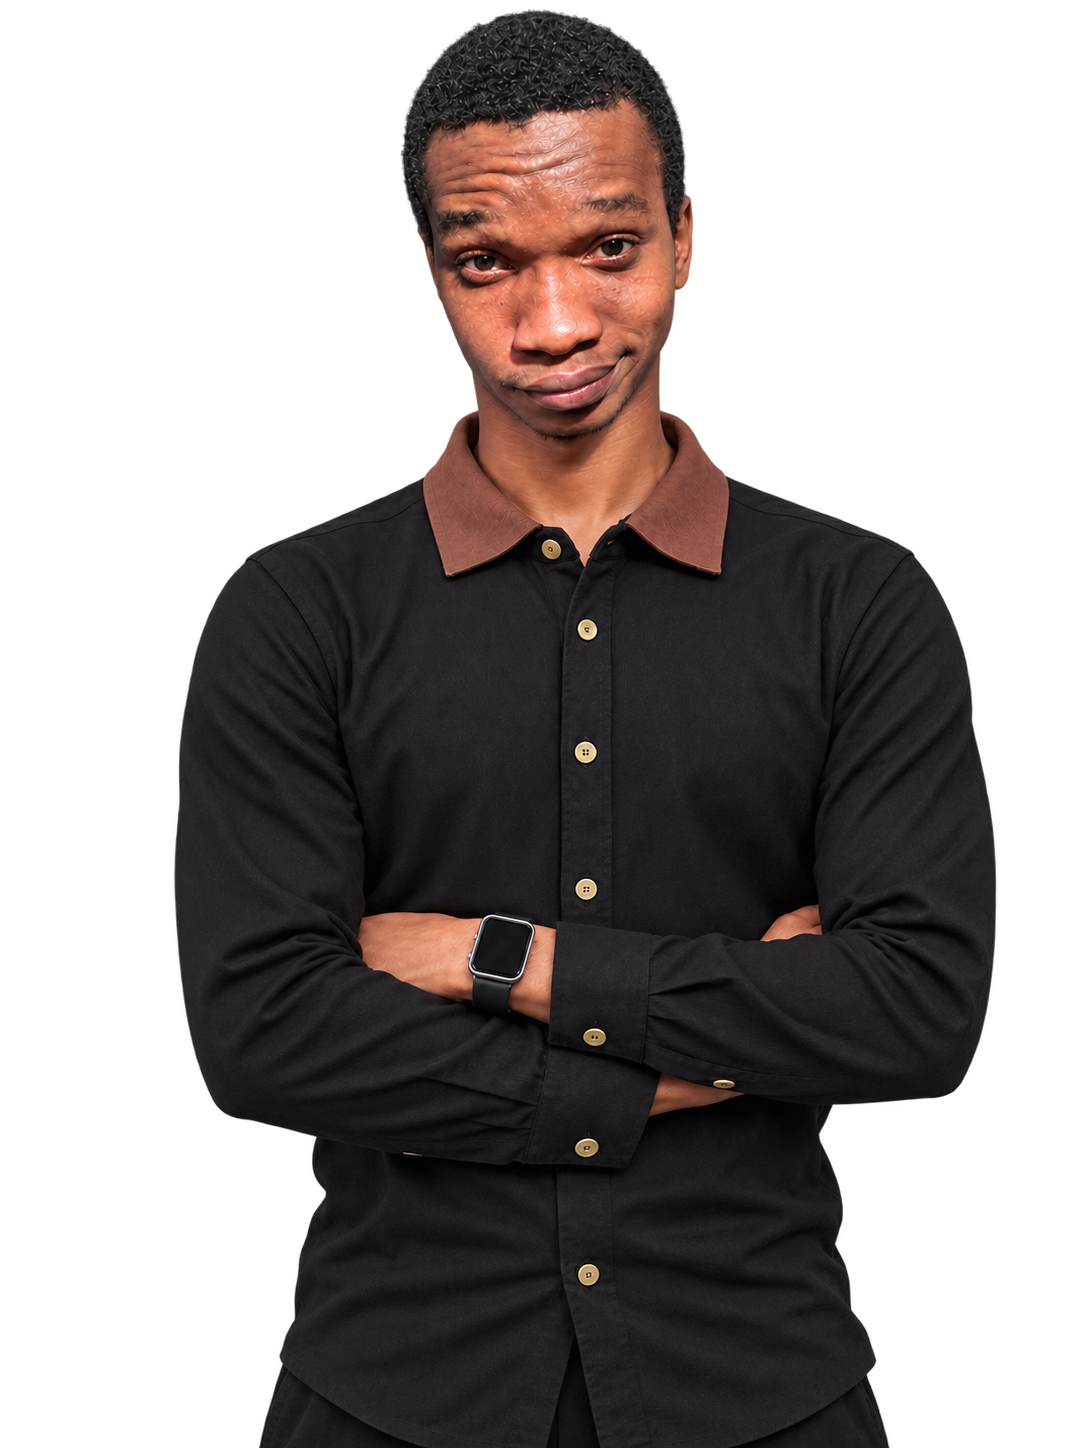
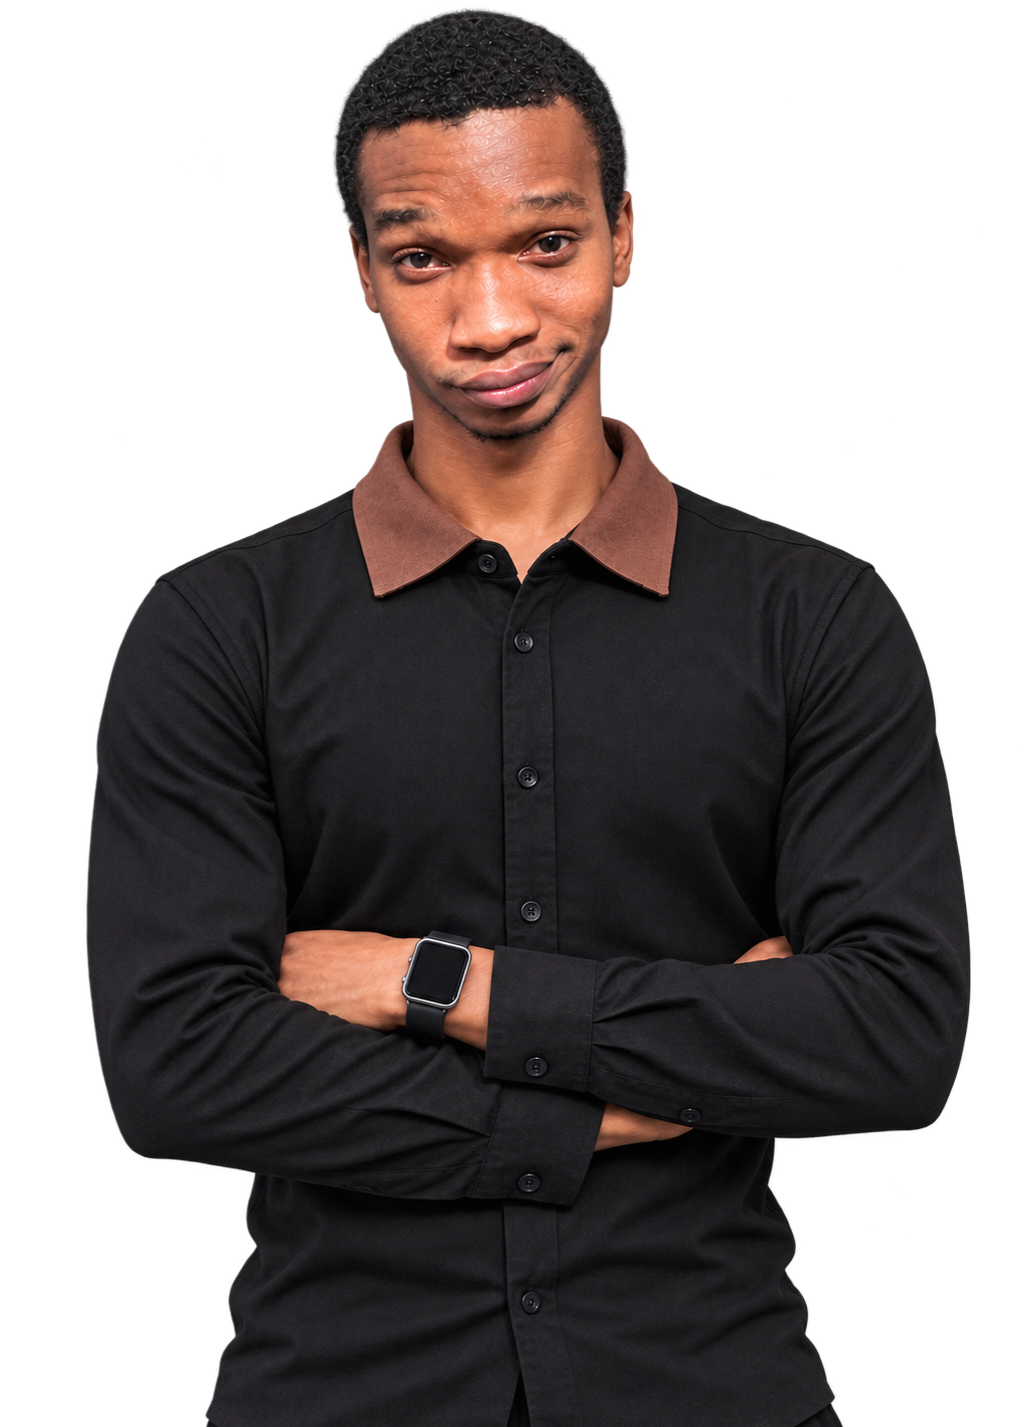
initial commit

diff --git a/src/index.css b/src/index.css
@@ -4,7 +4,7 @@
 @font-face {  font-family: "Fredoka";  src: url("/fonts/fredoka.ttf") format("truetype");  font-weight: 300 700;  font-style: normal;  font-display: swap;}
 @font-face {  font-family: "JetBrains Mono";  src: url("/fonts/jetbrains-mono.ttf") format("truetype");  font-weight: 100 800;  font-style: normal;  font-display: swap;}
 :root {  --font-delius: "Delius", ui-sans-serif, system-ui, sans-serif;  --font-fredoka: "Fredoka", ui-sans-serif, system-ui, sans-serif;  --font-jetbrains-mono: "JetBrains Mono", ui-monospace, monospace;}
-@theme {  --color-mist: #e5e8e5;  --color-cream: #fcfdfc;  --color-cocoa: #222a27;  --color-cocoa-soft: #48534e;  --color-muted: #5f6a65;  --color-line: #cdd4cf;  --color-sunshine: #fed15c;  --color-leaf: #4ca275;  --color-leaf-ink: #286146;  --color-rose: #fe9399;  --color-rose-ink: #a23943;  --color-sky: #8ac0ff;  --color-sky-ink: #285982;  --color-tangerine: #fd8749;  --color-tangerine-ink: #91451e;}.portfolio-header {  position: fixed;  inset: 0 0 auto;  width: 100%;  max-width: none;  margin: 0;  padding: 12px 28px;  display: flex;  align-items: center;  justify-content: space-between;  gap: 24px;  z-index: 50;  background: var(--color-mist);
+@theme {  --color-mist: #e8e6ed;  --color-cream: #fbfbfd;  --color-cocoa: #25232b;  --color-cocoa-soft: #4d4857;  --color-muted: #66616f;  --color-line: #d5d2db;  --color-sunshine: #fed15c;  --color-leaf: #4ca275;  --color-leaf-ink: #286146;  --color-rose: #fe9399;  --color-rose-ink: #a23943;  --color-sky: #8ac0ff;  --color-sky-ink: #285982;  --color-tangerine: #fd8749;  --color-tangerine-ink: #91451e;}.portfolio-header {  position: fixed;  inset: 0 0 auto;  width: 100%;  max-width: none;  margin: 0;  padding: 12px 28px;  display: flex;  align-items: center;  justify-content: space-between;  gap: 24px;  z-index: 50;  background: var(--color-mist);
   background: color-mix(in srgb, var(--color-mist) 90%, transparent);  -webkit-backdrop-filter: blur(14px);  backdrop-filter: blur(14px);  border-bottom: 1px solid color-mix(in srgb, var(--color-cocoa) 42%, transparent);}
 main { padding-top: 68px; }
 .portfolio-wordmark { display: flex; align-items: center; gap: 2px; font-size: 31px; line-height: 1; }
@@ -35,7 +35,7 @@ html { scroll-behavior: smooth; }
   .portfolio-header-actions { gap: 12px; }
   .portfolio-contact-link { font-size: 12px; padding: 7px 10px; }
   .portfolio-menu-toggle { display: flex; align-items: center; justify-content: center; width: 44px; height: 44px; }
-  .portfolio-mobile-nav { display: flex; flex-direction: column; position: absolute; left: 12px; right: 12px; top: calc(100% - 5px); background: var(--color-cream); border: 1px solid var(--color-line); border-radius: 18px; box-shadow: 0 12px 24px #222a271a; padding: 8px 16px; }
+  .portfolio-mobile-nav { display: flex; flex-direction: column; position: absolute; left: 12px; right: 12px; top: calc(100% - 5px); background: var(--color-cream); border: 1px solid var(--color-line); border-radius: 18px; box-shadow: 0 12px 24px #25232b1a; padding: 8px 16px; }
   .portfolio-mobile-nav a { display: flex; justify-content: space-between; align-items: center; padding: 13px 0; border-bottom: 1px solid var(--color-line); }
   .portfolio-mobile-nav a:last-child { border-bottom: 0; }
 }
@@ -70,13 +70,13 @@ html { scroll-behavior: smooth; }
  .portfolio-logo { width: 22px; height: 22px; }
  }@media (max-width: 860px) and (min-width: 701px) {  .portfolio-desktop-nav { display: none; }
   .portfolio-menu-toggle { display: flex; align-items: center; justify-content: center; width: 44px; height: 44px; }
-  .portfolio-mobile-nav { display: flex; flex-direction: column; position: absolute; right: 20px; top: calc(100% - 5px); width: min(360px, calc(100% - 40px)); background: var(--color-cream); border: 1px solid var(--color-line); border-radius: 18px; box-shadow: 0 12px 24px #222a271a; padding: 8px 16px; }
+  .portfolio-mobile-nav { display: flex; flex-direction: column; position: absolute; right: 20px; top: calc(100% - 5px); width: min(360px, calc(100% - 40px)); background: var(--color-cream); border: 1px solid var(--color-line); border-radius: 18px; box-shadow: 0 12px 24px #25232b1a; padding: 8px 16px; }
   .portfolio-mobile-nav a { display: flex; justify-content: space-between; align-items: center; padding: 13px 0; border-bottom: 1px solid var(--color-line); }
   .portfolio-mobile-nav a:last-child { border-bottom: 0; }
 }
 .hero-portrait-scene { position: absolute; inset: 40px -7px 130px; touch-action: pan-y; }
 .hero-logo-field { position: absolute; inset: 0; pointer-events: none; }
-.hero-asteroid { position: absolute; display: flex; align-items: center; justify-content: center; margin: -14px 0 0 -14px; will-change: transform; filter: drop-shadow(0 3px 2px #222a271a); }
+.hero-asteroid { position: absolute; display: flex; align-items: center; justify-content: center; margin: -14px 0 0 -14px; will-change: transform; filter: drop-shadow(0 3px 2px #25232b1a); }
 .hero-asteroid img { width: 100%; height: 100%; object-fit: contain; }
 .home-section { width: min(100% - 80px, 1360px); margin-inline: auto; padding-block: 112px; scroll-margin-top: 24px; }
 .section-kicker { font: 11px/1.4 var(--font-fredoka), sans-serif; letter-spacing: .12em; margin-bottom: 30px; }
@@ -334,7 +334,7 @@ html { scroll-behavior: smooth; }
 .project-visual { position:relative; height:350px; border-radius:20px; overflow:hidden; background:var(--color-mist); isolation:isolate; }
 .project-visual-top { position:absolute; top:22px; left:25px; right:25px; display:flex; justify-content:space-between; font:8px var(--font-jetbrains-mono),monospace; letter-spacing:.08em; color:var(--case-ink); }
 .project-stage-name { position:absolute; top:40px; left:25px; right:20px; white-space:nowrap; font:500 clamp(55px,7vw,100px)/1 var(--font-fredoka),sans-serif; letter-spacing:-.05em; color:var(--case-ink); opacity:.12; }
-.project-preview { position:absolute; z-index:2; left:7%; right:7%; top:78px; aspect-ratio:2.26; overflow:hidden; border:4px solid #fcfdfc; border-radius:14px; background:#0f131a; box-shadow:0 20px 32px #222a2726; transform:rotate(-1.8deg); transition:transform .45s cubic-bezier(.2,.7,.2,1); }
+.project-preview { position:absolute; z-index:2; left:7%; right:7%; top:78px; aspect-ratio:2.26; overflow:hidden; border:4px solid #fbfbfd; border-radius:14px; background:#0f131a; box-shadow:0 20px 32px #25232b26; transform:rotate(-1.8deg); transition:transform .45s cubic-bezier(.2,.7,.2,1); }
 .project-preview > img { object-fit:contain; object-position:center; border-radius:10px; }
 .project-preview-open { position:absolute; right:13px; bottom:13px; display:grid; place-items:center; width:42px; height:42px; background:var(--color-cocoa); color:var(--color-cream); border-radius:50%; box-shadow:0 3px 8px #0002; transition:transform .3s; }
 .project-preview:hover,.project-preview:focus-visible { transform:rotate(0) translateY(-6px); }

diff --git a/src/content/profile.ts b/src/content/profile.ts
@@ -1,7 +1,7 @@
 export const profile = {
   jobTitle: "Full-Stack, DevOps & Cloud Engineer",
   bio: [
-    "I’m Zelvarys, a full-stack, DevOps and cloud engineer. I like owning a product from the first database table to the last deploy: the interface people touch, the API and data underneath, and the server it all runs on.",
+    "I’m Osasan Olusola, a full-stack, DevOps and cloud engineer. I like owning a product from the first database table to the last deploy: the interface people touch, the API and data underneath, and the server it all runs on.",
     "I’m curious by nature and always hungry to learn. I want to know how things work under the hood, so I read the docs and the source, take things apart and build them again. The harder the problem, the more I enjoy it: I like to question the obvious answer and test my assumptions before I commit to a fix.",
     "I care about the unglamorous parts of software: data integrity, failure states, deploy pipelines and the edge cases that only show up after launch.",
     "Lately I’ve been building developer tools and automation: repository health dashboards, validation libraries, profile stats and assistants that remove repetitive work.",

diff --git a/index.html b/index.html
@@ -3,7 +3,7 @@
   <head>
     <meta charset="UTF-8" />
     <meta name="viewport" content="width=device-width, initial-scale=1.0" />
-    <meta name="theme-color" content="#e5e8e5" />
+    <meta name="theme-color" content="#e8e6ed" />
     <meta
       name="description"
       content="Zelvarys is a full-stack, DevOps and cloud engineer building developer tools, automation and production web apps end to end."
